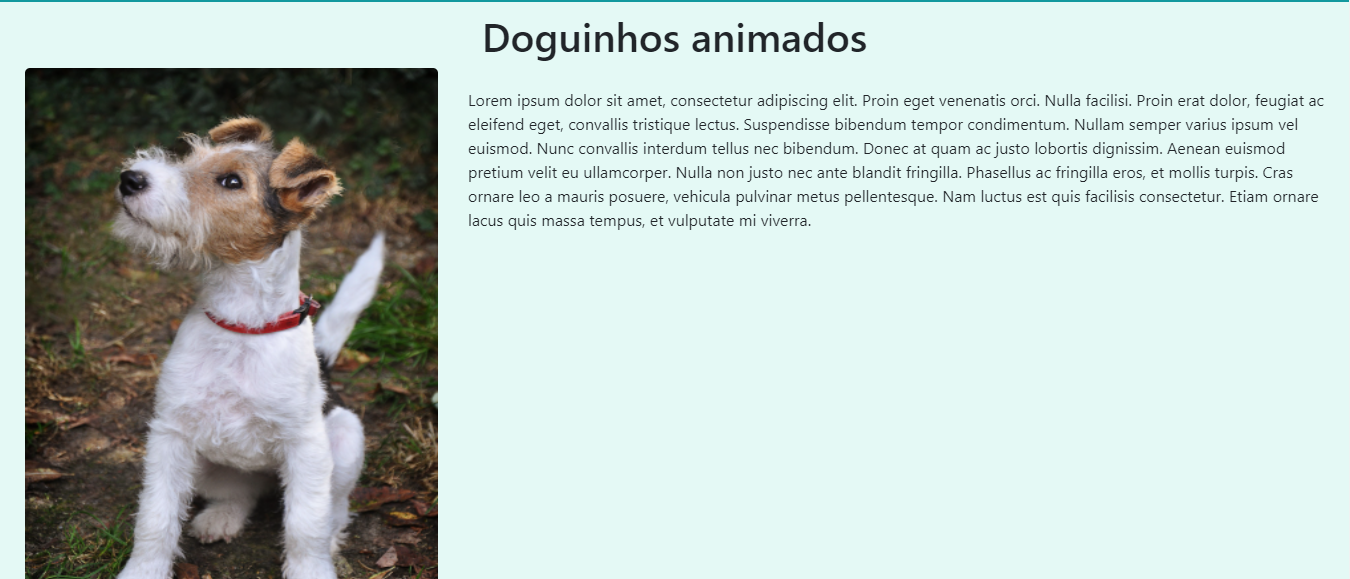
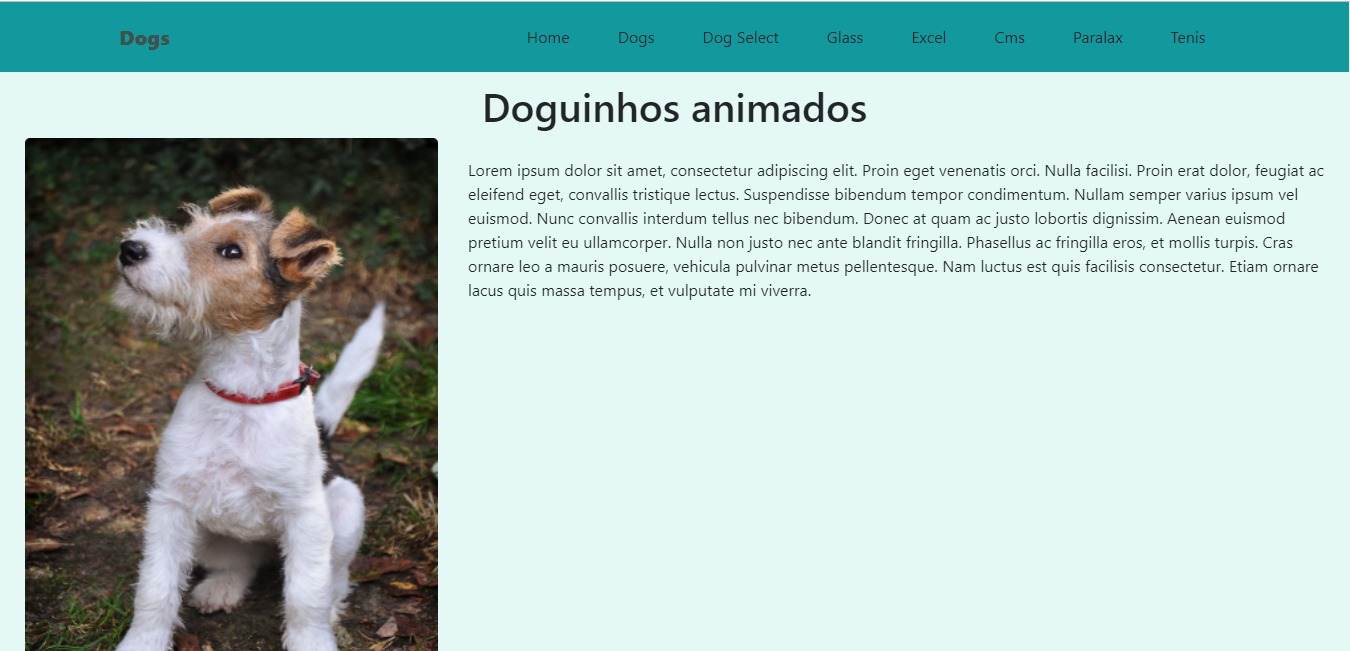
excel

diff --git a/src/components/excelrender.js b/src/components/excelrender.js
@@ -1,107 +1,78 @@
 import React, { useState } from 'react'
-import { Button,  Table, Container  } from 'react-bootstrap';
+import { Button, Table, Container } from 'react-bootstrap';
 import { ExcelRenderer } from 'react-excel-renderer';
 import styled from 'styled-components';
 
 
 const Excel = () => {
 
-    const [state, setState] = useState({})
-    const hasLine = Object.keys(state).length > 0
+    const [state, setState] = useState({ rows: [[]]})
+    const hasLine = () =>  state.rows[0].length 
 
- 
-const send = () => { 
-console.log('send')
-}
+
+    const send = () => {
+
+        if (hasLine()){
+            alert('Os dados foram submetidos!')
+        }else{
+            alert('Necessário carregar itens submetidos!')
+        }
+    }
 
     const fileHandler = (event) => {
         let fileObj = event.target.files[0];
 
-        //just pass the fileObj as parameter
         ExcelRenderer(fileObj, (err, resp) => {
-            
             if (err) {
-                console.log(err);
+                alert(`Não foi possível carragar o arquivo! ${err}`)
             }
             else {
                 resp.rows.splice(0, 1)
-
-                setState({                   
+                setState({
                     rows: resp.rows
                 });
 
             }
         });
-
     }
 
 
-   
+
 
     return (
 
-        
         <StContainer>
-            <br/>
-            <input type="file" onChange={fileHandler.bind(this)} style={{ "padding": "10px" }} />
+<div className='d-flex align-items-center justify-content-between w-100 mt-3'>
 
-            <hr />
-            <br/>
+            <input type="file" onChange={fileHandler.bind(this)}  accept=".xls,.xlsx" />
+
+            <Button disabled={!state.rows[0].length} onClick={send} variant="outline-primary">Submeter</Button>
+</div>
+
             {hasLine ?
-            <>
-               
-
-            <Scrolable>
-                <Table striped hover>
-                    <thead>
-                        <tr>
-                            <THeadItem>Aluno</THeadItem>
-                            <THeadItem>Matrícula</THeadItem>
-                            <THeadItem>Ano Letivo</THeadItem>
-                            <THeadItem>Turma</THeadItem>
-                            <THeadItem>Disciplina</THeadItem>
-                            <THeadItem>Bimestre</THeadItem>
-                            <THeadItem>Recuperação?</THeadItem>
-                            <THeadItem>Nota</THeadItem>                           
-
-                        </tr>
-                    </thead>
-                    <tbody>
-
-
-                        {state.rows.map((catg, i) => (
-                                                
-                            <tr key={i}>
-                                <td>{catg[0].toUpperCase()}</td>
-                                <td>{catg[1]}</td>
-                                <td>{catg[2]}</td>
-                                <td>{catg[3]}</td>
-                                <td>{catg[4].toUpperCase()}</td>
-                                <td>{catg[5]}</td>
-                                <td>{catg[6].toUpperCase()}</td>
-                                <td>{catg[7]}</td>
-                            </tr>
-            
-                        
-                        ))} 
-
-                    </tbody>
-                </Table>
-            </Scrolable>
-
-                
-                
-                
-                <br/>
-                <Button onClick={()=>send} variant="outline-primary">Submeter</Button>
-              </>
+                <>
+                    <Scrolable>
+                        <Table striped hover>
+                            <thead>
+                                <tr>
+                                    {state.rows[0].map((catg, i) => (
+                                        <THeadItem key={i}> {catg} </THeadItem>
+                                    ))}
+                                </tr>
+                            </thead>
+                            <tbody>
+                                {state.rows.map((catg, i) => (
+                                    <tr key={i}>
+                                        {catg.map((key, index) => (<td key={index} > {key} </td>))}
+                                    </tr>
+                                ))}
+                            </tbody>
+                        </Table>
+                    </Scrolable>
+                    
+                </>
                 : <h4>Clique no botão escolher arquivo para carregar a lista em excel.</h4>}
-
-        <br/>
-        <br/>
-        
         </StContainer>
-        
     )
 }
 
@@ -196,7 +167,7 @@ const THeadItem = styled.th`
     background: #666;
     color:#eee;
     text-align:center;
-    :nth-child(1){  width: 20%; }
+    /* :nth-child(1){  width: 20%; }
     :nth-child(2){  width: 10%; }
     :nth-child(3){  width: 5%; }
     :nth-child(4){  width: 5%; }
@@ -204,7 +175,7 @@ const THeadItem = styled.th`
     :nth-child(6){  width: 5%; }
     :nth-child(7){  width: 10%; }
     :nth-child(8){  width: 10%; }
-    :nth-child(9){  width: 10%; }
+    :nth-child(9){  width: 10%; } */
 
 `
 

diff --git a/src/components/smooth.js b/src/components/smooth.js
@@ -71,7 +71,7 @@ box-shadow: 5px 10px 10px #888888;
         <StContainer fluid>
             <StDiv>
                 <Zoom bottom >
-                    <h1 className='text-center'>Select your Dog!</h1>
+                    <h1 className='text-center'>Escolha um doguinho.</h1>
                 </Zoom>
                 <Row >
                     <Col>
@@ -80,9 +80,9 @@ box-shadow: 5px 10px 10px #888888;
                 </Row>
                 <Row xs={12} className="my-3">
                     {dogs.map((item, index) =>
-                        <Col xs={4} md={1}>
-                            <StImg className="w-100 h-100" key={index} onClick={() => start(index)} >
-                                <img src={item} className="w-100 h-100" alt={item} />
+                        <Col xs={4} md={1} className="my-1" >
+                            <StImg className="w-100 h-100 " key={index} onClick={() => start(index)} >
+                                <img src={item} className="rounded-sm w-100 h-100" alt={item} />
                             </StImg>
 
                         </Col>

diff --git a/src/App.js b/src/App.js
@@ -4,7 +4,6 @@ import { Route, Router, Switch } from 'react-router-dom'
 import Home from './components/home';
 import Dog from './components/dog';
 import Smooth from './components/smooth';
-import Glass from './components/glass';
 import history from './config/history';
 import Excel from './components/excelrender';
 import Cms from './components/cms';
@@ -27,12 +26,8 @@ const links = [
         component: Smooth
     },
     {
-        path: "/glass", label: "Glass",
-        description: "Glasmorphism", component: Glass
-    },
-    {
         path: "/excel", label: "Excel",
-        description: "Excel numa aplicação do mundo real. Quem trabalha em escritório e numca precisou importar uma planilha de excel?",
+        description: "Excel numa aplicação do mundo real. Quem trabalha em escritório e numca precisou importar uma planilha de excel? Esta página não é para mobile.",
         component: Excel
     },
     {

diff --git a/src/assets/images/images.js b/src/assets/images/images.js
@@ -21,12 +21,12 @@ import logoDaniela from './logoDaniela.png'
 import dog7 from './dog7.JPG'
 import dog2 from './dog2.JPG'
 import smooth from './smooth.PNG'
-
+import excel from './excel.PNG'
 
 
 
 const images = {
-    areia,    dog1,    dog,    dog10,    dog3,    dog6,    dog9,    mar,    dog2, doguinho,
+    areia,    dog1,    dog,    dog10,    dog3,    dog6,    dog9,    mar,    dog2, doguinho, excel,
     toras,    buffet,    dog11,    dog4,    coelho,    dog8,    dog5,    logoDaniela,    dog7,
     smooth
 };

diff --git a/src/components/dog.js b/src/components/dog.js
@@ -33,7 +33,7 @@ padding-top: 20px;
 
                 <Col xs={12}  md={8}>
                     <Slide right>
-                        <Centertx > {lorem(100)}  </Centertx>
+                        <Centertx > {lorem(700)}  </Centertx>
                     </Slide>
                 </Col>
             </Row>
